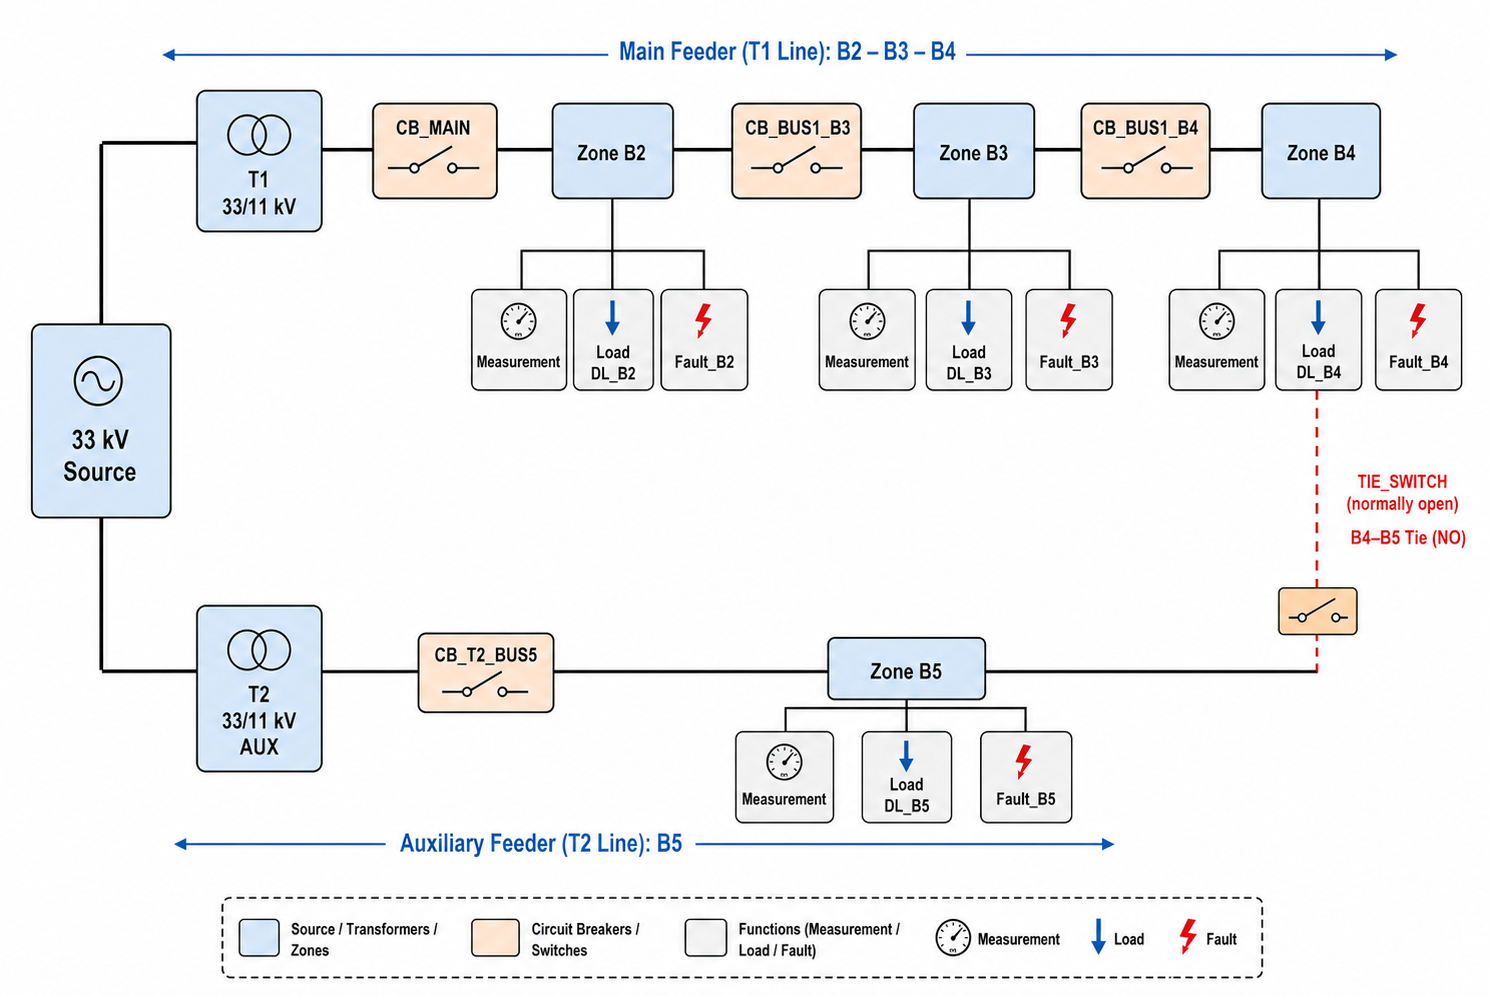
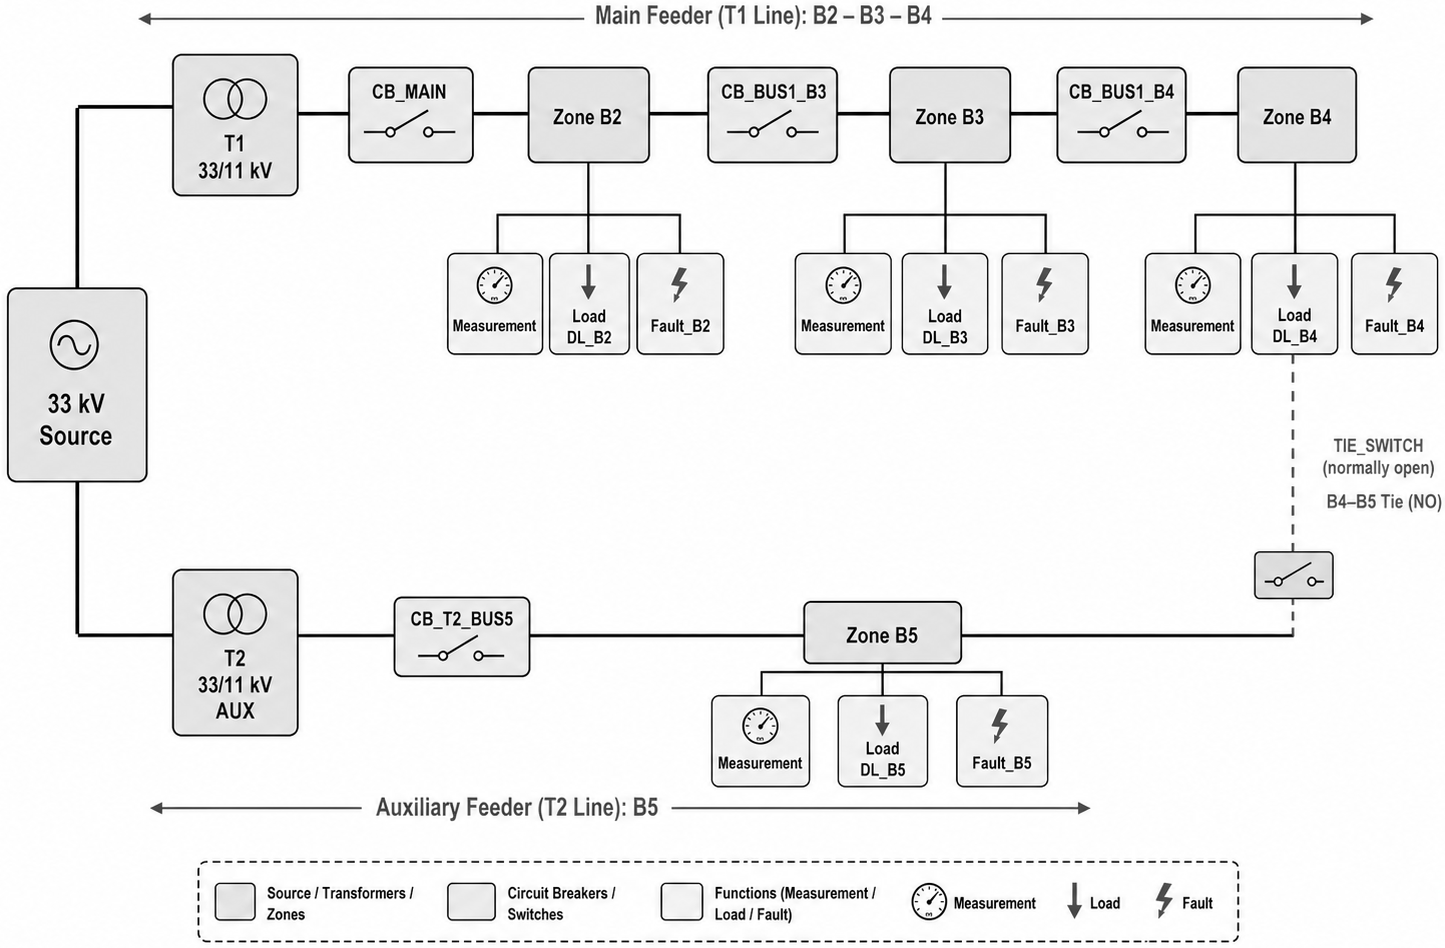
Sync curated figures with the submitted document
The thesis figures were cropped to their content when the layout was
tightened to the page limit, so the copies under
outputs/figures/thesis_final_named/ no longer matched the document they
are supposed to mirror.

Thirteen figures replaced with the images now embedded in the thesis.
Four of them (5.3-5.6) also predated the corrected final document and
differed for that reason as well. The remaining eighteen were already
identical and are untouched. No figure content was altered - only the
white border around it.

The provenance note in docs/thesis_final_figure_filename_map.md now
points at the corrected final thesis rather than the superseded FINAL
Word file, and records the crop.

Changed region(s): [[0.0, 0.0, 1.0, 1.0], [0.872, 0.4283, 0.9031, 0.4589]]

diff --git a/docs/thesis_final_figure_filename_map.md b/docs/thesis_final_figure_filename_map.md
@@ -2,10 +2,10 @@
 
 _Updated: 2026-08-10_
 
-This table maps every official figure caption in
-`Chimundu_VCC_BEng_Thesis_FINAL.docx` to its file in this repository. All 30 numbered figures
-used in the final thesis are provided under `outputs/figures/thesis_final_named/`, grouped by
-chapter and named after their official captions. The unnumbered front-matter image is not included.
+This table maps every official figure caption in the corrected final thesis
+(`docs/Chimundu_VCC_BEng_Thesis_CORRECTED_FINAL.pdf`) to its file in this repository. Every
+numbered figure is provided under `outputs/figures/thesis_final_named/`, grouped by chapter
+and named after its official caption. The unnumbered front-matter image is not included.
 
 - Total figures: **31** (Figure 3.1–3.7, 4.1–4.5, 5.1–5.15, 6.1–6.3, C.1)
 - Appendix B no longer contains a figure: the project Gantt chart is now **Table B.1**, a native
@@ -46,5 +46,8 @@ chapter and named after their official captions. The unnumbered front-matter ima
 | 6.3 | Figure 6.3: Future-work roadmap | `outputs/figures/thesis_final_named/chapter_6/Figure_6_03_future_work_roadmap.png` |
 | C.1 | Figure C.1: Indicative field deployment architecture for the proposed FDIR scheme | `outputs/figures/thesis_final_named/appendix_C/Figure_C_01_indicative_field_deployment_architecture.png` |
 
-All files in this curated set were extracted directly from the final thesis document so the
-repository matches the submitted Word file.
+All files in this curated set are the images embedded in the submitted document, so the
+repository matches it figure for figure. They are cropped to their content: the white border
+was trimmed off each one when the thesis layout was tightened to the page limit, which is why
+some are smaller here than in earlier revisions of this archive. No figure content was
+altered.
